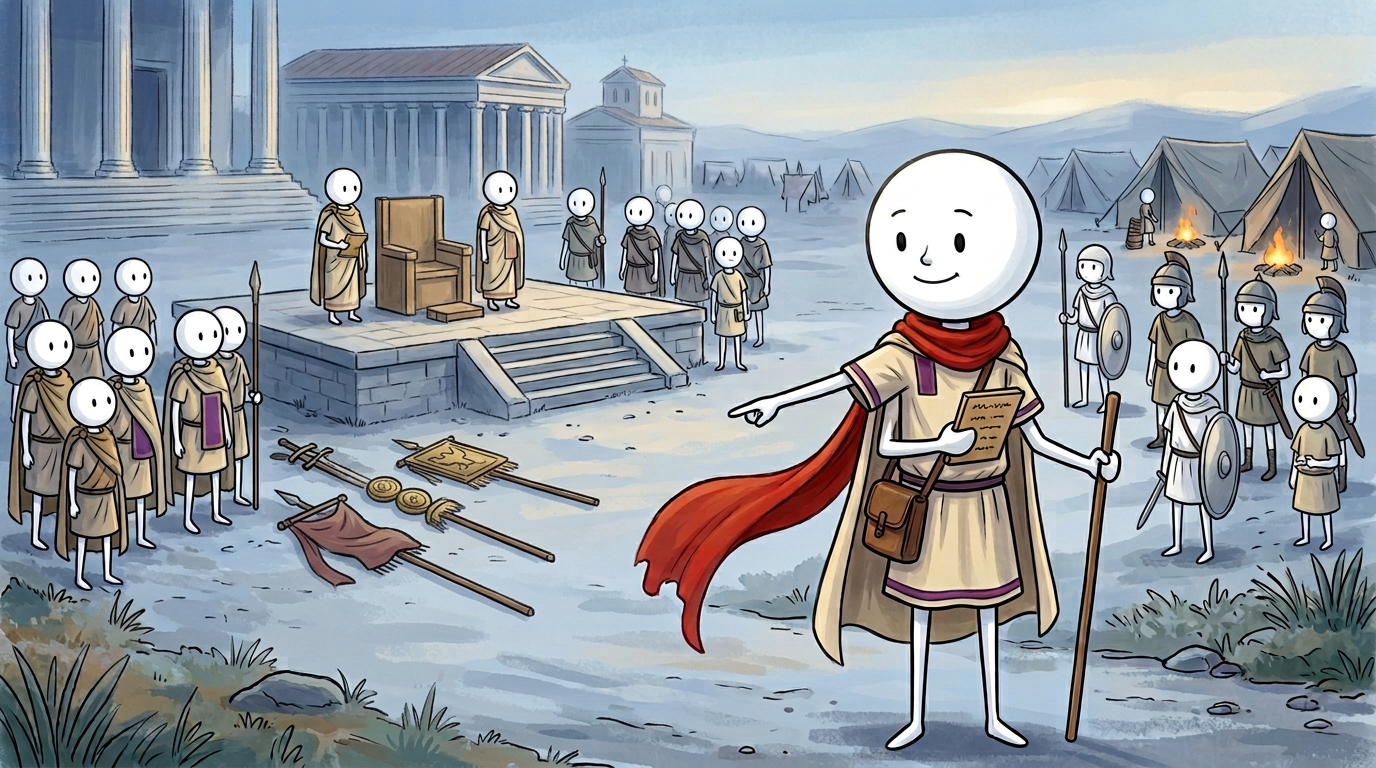
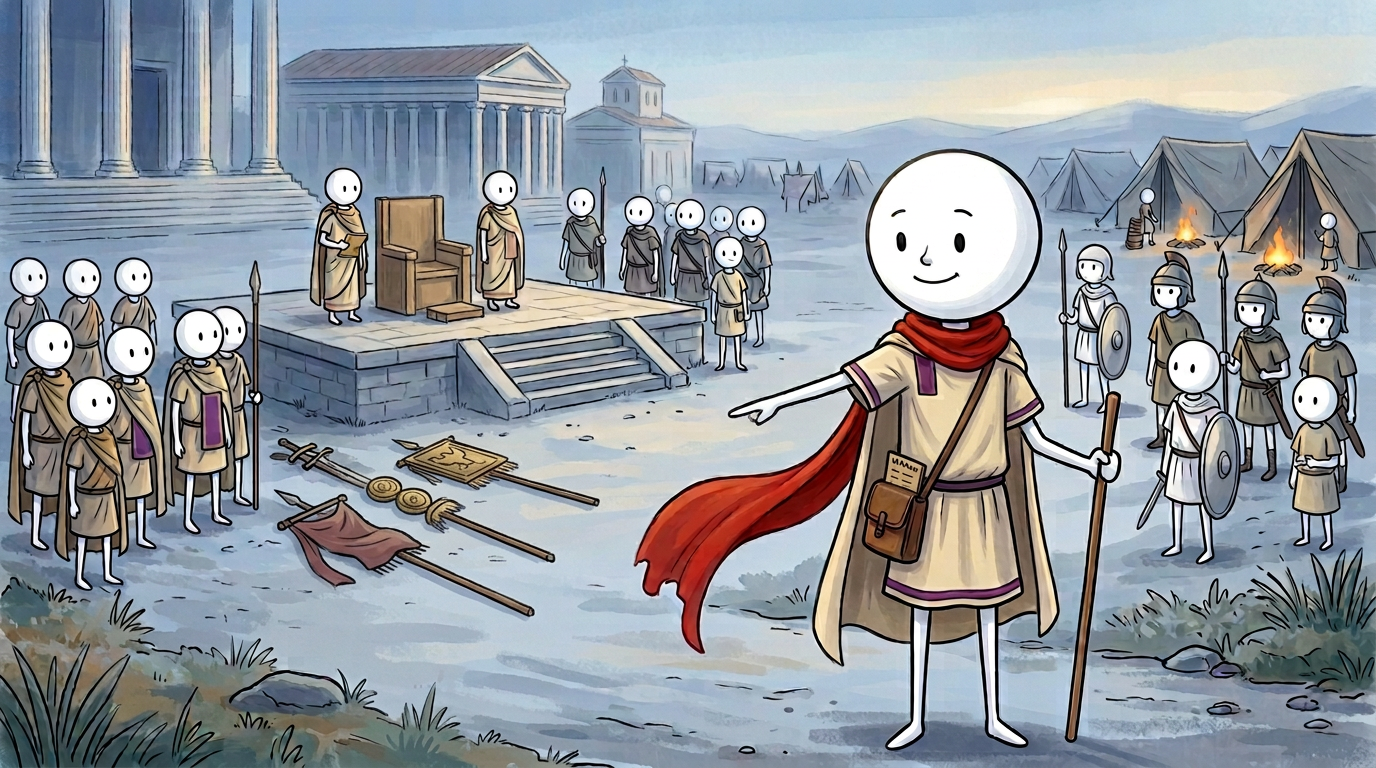
B022 s01 duzeltme: Merakli 3 kol -> 2 kol (tablet bel cantasindaa)

Changed region(s): [[0.625, 0.5, 0.75, 0.6562], [0.5312, 0.5, 0.5625, 0.5625]]

diff --git a/bolumler/022-leo-tac-giyme/BOLUM-PLANI.md b/bolumler/022-leo-tac-giyme/BOLUM-PLANI.md
@@ -7,9 +7,9 @@ Konu kilidi: **7 Şubat MS 457, Konstantinopolis — I. Leo'nun ilan günü.**
 görselleri (20+5=25). Tur A s01-s10 = 10 ses + ana görseller ve
 s02b/s06b; Tur B s11-s20 = 10 ses + ana görseller ve s13b/s15b;
 Tur C = s19b + kapak.
-DURUM: 🟡 S01 TESTİ ÜRETİLDİ: ses 41,62 sn; görsel ikinci adayda
-QA PASS (tek Meraklı, sancaklar yerde, tribunal/boş taht açık).
-Sıradaki adım: kullanıcı onayı → Tur A (s02-s10 + s02b/s06b).
+DURUM: 🟢 S01 TESTİ ONAYLANDI: ses 41,62 sn. Kullanıcı geri
+bildirimiyle görseldeki 3 kol hatası düzeltildi (tam 2 kol;
+tablet bel çantasında). Tur A sürüyor: s02-s10 + s02b/s06b.
 
 Kaynak özeti: `arastirma/022-uzun-leo-tac-giyme.md`.
 Açı: Meraklı, gerçek *silentiarii* düzen görevlilerinin arkasında
@@ -275,7 +275,7 @@ OLMAYI UNUTMAYIN!" standardıyla Tur C'de kilitlenecek.
 
 ## Tur DURUMU
 
-- [x] TEST: s01 ses+görsel üretildi; kullanıcı onayı bekleniyor
+- [x] TEST: s01 ses+görsel üretildi; 3 kol düzeltmesiyle onaylandı
 - [ ] Tur A: s01-s10 sesler + ana görseller ve s02b/s06b
 - [ ] Tur B: s11-s20 sesler + ana görseller ve s13b/s15b
 - [ ] Tur C: s19b + kapak + plan.json + SADECE_MIX + derleme + YAYIN
